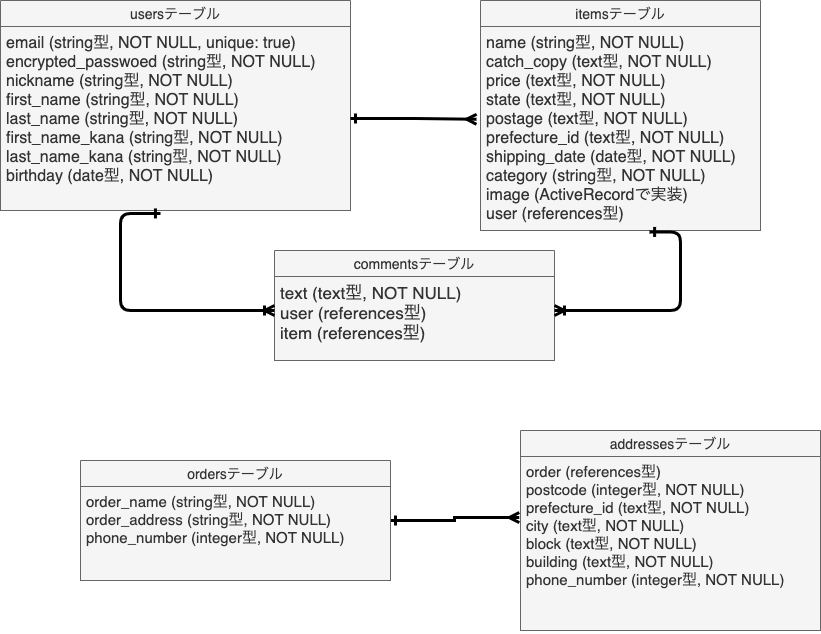
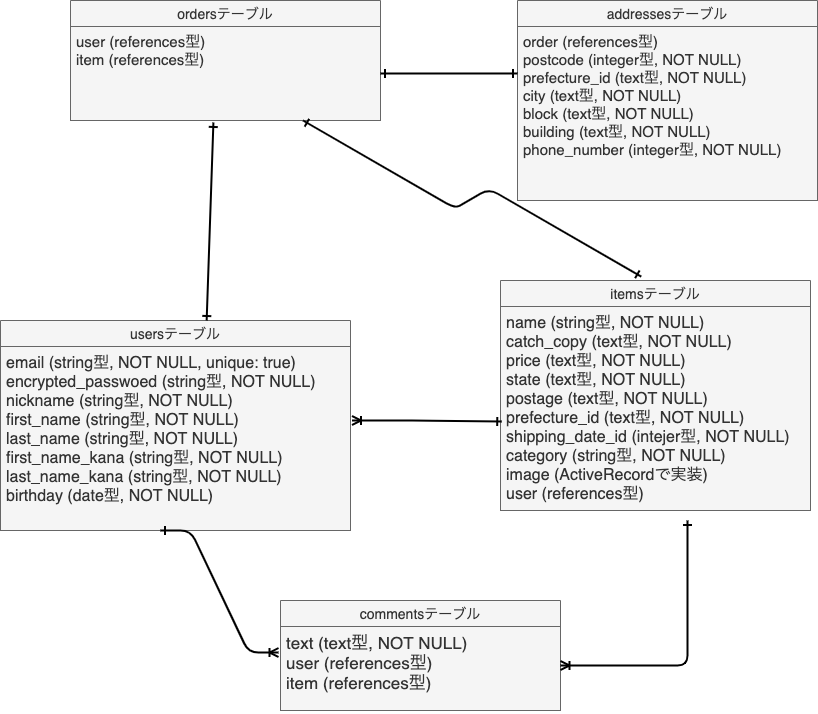
ER図とREADMEの編集4

diff --git a/README.md b/README.md
@@ -15,7 +15,7 @@
 
 - has_many :items
 - has_many :comments
-- has_one :order
+- has_many :orders
 
 ## itemsテーブル
 
@@ -27,7 +27,7 @@
 | state_id            | integer               | null: false                    |
 | postage_id          | integer               | null: false                    |
 | prefecture_id       | integer               | null: false                    |
-| shipping_date       | date                  | null: false                    |
+| shipping_date_id    | integer               | null: false                    |
 | category_id         | integer               | null: false                    |
 | user                | references            | null: false, foreign_key: true |
 
@@ -54,16 +54,13 @@
 
 | Column           | Type               | Option                         |
 | -----------------| -------------------| -------------------------------|
-| order_name       | string             | null: false                    |
-| order_address    | string             | null: false                    |
-| phone_number     | string             | null: false                    |
 | user             | references         | null: false, foreign_key: true |
 | item             | references         | null: false, foreign_key: true |
 
 ### Association
 
 - has_one :address
-- belongs_to :order
+- belongs_to :item
 - belongs_to :user
 
 ## addressesテーブル
